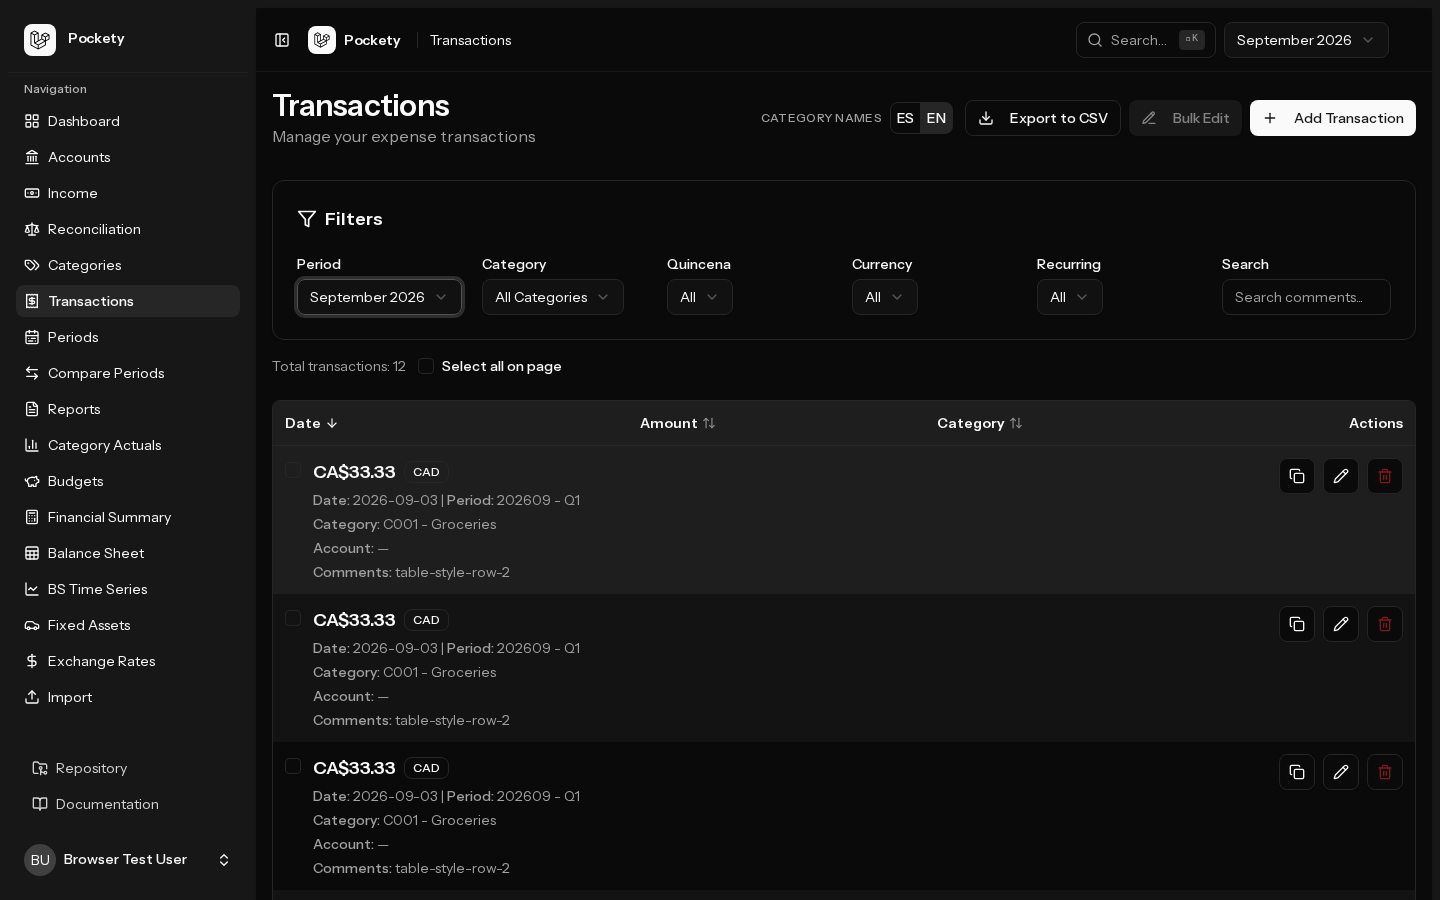
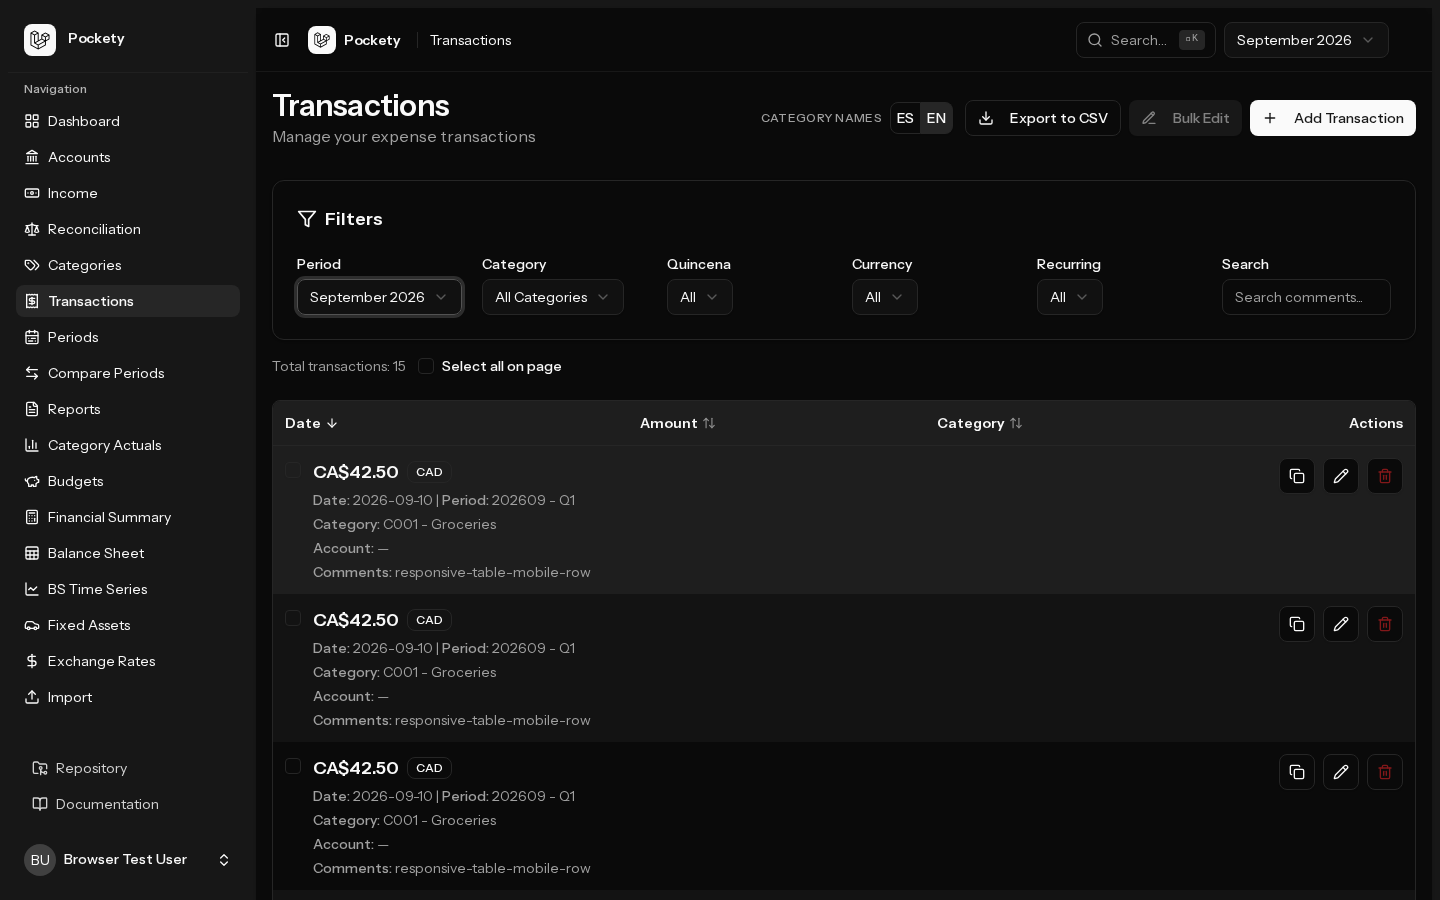
Implement responsive tables on mobile - verified end-to-end
- Shared Table scrolls horizontally with min-width on narrow viewports
- Transactions use stacked card layout and wrap sort controls at 375px
- Income and other data tables keep columns reachable via horizontal scroll
- Added Playwright coverage and marked feature_list.json test #146 passing
- Screenshots in verification/test-146-responsive-tables/

diff --git a/tests/browser/responsive-tables.spec.ts b/tests/browser/responsive-tables.spec.ts
@@ -1,0 +1,153 @@
+import { expect, test } from '@playwright/test';
+import { loginAsBrowserTestUser, trackConsoleErrors } from './helpers';
+
+const evidence = 'verification/test-146-responsive-tables';
+
+test.describe('responsive tables on mobile', () => {
+    test('transactions list uses card layout and remains interactive at 375px', async ({
+        page,
+    }) => {
+        const errors = trackConsoleErrors(page);
+        page.on('pageerror', (error) => errors.push(error.message));
+        await page.setViewportSize({ width: 375, height: 812 });
+        await loginAsBrowserTestUser(page);
+
+        const categories = await page.request.get('/api/categories');
+        expect(categories.ok()).toBeTruthy();
+        const categoryPayload = (await categories.json()) as {
+            data: Array<{ id: number }>;
+        };
+        expect(categoryPayload.data.length).toBeGreaterThan(0);
+        const categoryId = categoryPayload.data[0].id;
+
+        const create = await page.request.post('/api/transactions', {
+            data: {
+                date: '2026-09-10',
+                period: '202609',
+                quincena: 'Q1',
+                category_id: categoryId,
+                amount_cad: 42.5,
+                comments: 'responsive-table-mobile-row',
+            },
+        });
+        expect(create.ok()).toBeTruthy();
+        const created = (await create.json()) as { data: { id: number } };
+        const transactionId = created.data.id;
+
+        await page.goto('/transactions');
+        await page.getByTestId('page-period-selector').click();
+        await page
+            .getByRole('option', { name: 'September 2026', exact: true })
+            .click();
+
+        const table = page.getByTestId('transactions-data-table');
+        await expect(table).toBeVisible();
+        await expect(table).toHaveAttribute('data-responsive', 'cards');
+
+        const row = page.getByTestId(`transaction-row-${transactionId}`);
+        await expect(row).toBeVisible();
+        await expect(
+            page.getByTestId(`transaction-amount-${transactionId}`),
+        ).toBeVisible();
+        await expect(
+            page.getByTestId(`transaction-category-${transactionId}`),
+        ).toBeVisible();
+        await expect(
+            page.getByTestId(`transaction-comments-${transactionId}`),
+        ).toContainText('responsive-table-mobile-row');
+
+        const actions = page.getByTestId(
+            `transaction-actions-${transactionId}`,
+        );
+        await expect(actions).toBeVisible();
+        await expect(
+            page.getByTestId(`duplicate-transaction-${transactionId}`),
+        ).toBeVisible();
+        await expect(row.getByTestId('edit-transaction-button')).toBeVisible();
+        await expect(
+            row.getByTestId('delete-transaction-button'),
+        ).toBeVisible();
+
+        await row.getByTestId('edit-transaction-button').click();
+        const dialog = page.getByRole('dialog');
+        await expect(dialog).toBeVisible();
+        await expect(dialog.getByTestId('transaction-form-title')).toHaveText(
+            'Edit Transaction',
+        );
+        await page.keyboard.press('Escape');
+        await expect(dialog).toHaveCount(0);
+
+        await page.getByTestId(`select-transaction-${transactionId}`).click();
+        await expect(row).toHaveAttribute('data-selected', 'true');
+
+        // Sort controls remain usable on the narrow viewport
+        await page.getByTestId('sort-header-date').click();
+        await expect(page.getByTestId('sort-header-date')).toHaveAttribute(
+            'aria-sort',
+            /ascending|descending/,
+        );
+
+        await page.screenshot({
+            path: `${evidence}/transactions-mobile-375.png`,
+            animations: 'disabled',
+            fullPage: true,
+        });
+
+        expect(errors).toEqual([]);
+    });
+
+    test('income table scrolls horizontally on mobile without clipping columns', async ({
+        page,
+    }) => {
+        const errors = trackConsoleErrors(page);
+        page.on('pageerror', (error) => errors.push(error.message));
+        await page.setViewportSize({ width: 375, height: 812 });
+        await loginAsBrowserTestUser(page);
+
+        const description = `Mobile scroll income ${Date.now()}`;
+        const create = await page.request.post('/api/income', {
+            data: {
+                period: '202609',
+                description,
+                amount_cad: 1000,
+                amount_usd: 50,
+                amount_cop: 500000,
+            },
+        });
+        expect(create.ok()).toBeTruthy();
+
+        await page.goto('/income');
+        await page.locator('#period').fill('202609');
+        await page.getByRole('button', { name: 'Load Period' }).click();
+
+        const table = page.getByTestId('income-data-table');
+        await expect(table).toBeVisible({ timeout: 15000 });
+        await expect(table).toHaveAttribute('data-responsive', 'scroll');
+        await expect(page.getByText(description).first()).toBeVisible();
+
+        const scrollMetrics = await table.evaluate((el) => ({
+            clientWidth: el.clientWidth,
+            scrollWidth: el.scrollWidth,
+            overflowX: getComputedStyle(el).overflowX,
+        }));
+        expect(scrollMetrics.overflowX).toMatch(/auto|scroll/);
+        expect(scrollMetrics.scrollWidth).toBeGreaterThan(
+            scrollMetrics.clientWidth,
+        );
+
+        await table.evaluate((el) => {
+            el.scrollLeft = el.scrollWidth;
+        });
+        await expect
+            .poll(async () => table.evaluate((el) => el.scrollLeft))
+            .toBeGreaterThan(0);
+
+        await page.screenshot({
+            path: `${evidence}/income-mobile-scroll-375.png`,
+            animations: 'disabled',
+            fullPage: true,
+        });
+
+        expect(errors).toEqual([]);
+    });
+});

diff --git a/resources/js/pages/transactions.tsx b/resources/js/pages/transactions.tsx
@@ -1771,11 +1771,12 @@ export default function Transactions() {
                         </div>
 
                         <div
-                            className="overflow-hidden rounded-md border"
+                            className="overflow-x-auto rounded-md border"
                             data-testid="transactions-data-table"
+                            data-responsive="cards"
                         >
                         <div
-                            className="grid grid-cols-[minmax(0,1.2fr)_minmax(0,1fr)_minmax(0,1.4fr)_auto] items-center gap-2 border-b bg-muted/70 px-3 py-3"
+                            className="flex flex-wrap items-center gap-2 border-b bg-muted/70 px-3 py-3 sm:grid sm:grid-cols-[minmax(0,1.2fr)_minmax(0,1fr)_minmax(0,1.4fr)_auto] sm:gap-2"
                             data-testid="transactions-sort-headers"
                             role="row"
                         >
@@ -1866,8 +1867,8 @@ export default function Transactions() {
                                     )}
                                 >
                                     <CardHeader className="px-3">
-                                        <div className="flex items-start justify-between gap-3">
-                                            <div className="flex items-start gap-3 flex-1">
+                                        <div className="flex flex-col gap-3 sm:flex-row sm:items-start sm:justify-between">
+                                            <div className="flex min-w-0 flex-1 items-start gap-3">
                                                 <Checkbox
                                                     id={`select-transaction-${transaction.id}`}
                                                     checked={selectedIds.includes(
@@ -1881,10 +1882,10 @@ export default function Transactions() {
                                                     }
                                                     data-testid={`select-transaction-${transaction.id}`}
                                                     aria-label={`Select transaction ${transaction.id}`}
-                                                    className="mt-1"
+                                                    className="mt-1 shrink-0"
                                                 />
-                                            <div className="flex-1">
-                                                <div className="flex items-center gap-2">
+                                            <div className="min-w-0 flex-1">
+                                                <div className="flex flex-wrap items-center gap-2">
                                                     <CardTitle
                                                         className="text-lg"
                                                         data-testid={`transaction-amount-${transaction.id}`}
@@ -1904,7 +1905,7 @@ export default function Transactions() {
                                                     )}
                                                 </div>
                                                 <CardDescription className="mt-1">
-                                                    <div className="space-y-1">
+                                                    <div className="space-y-1 break-words">
                                                         <div
                                                             data-testid={`transaction-date-${transaction.id}`}
                                                         >
@@ -1963,7 +1964,10 @@ export default function Transactions() {
                                                 </CardDescription>
                                             </div>
                                             </div>
-                                            <div className="flex gap-2">
+                                            <div
+                                                className="flex shrink-0 gap-2 self-end sm:self-start"
+                                                data-testid={`transaction-actions-${transaction.id}`}
+                                            >
                                                 <Button
                                                     variant="outline"
                                                     size="icon"

diff --git a/resources/js/pages/balance-sheet.tsx b/resources/js/pages/balance-sheet.tsx
@@ -345,9 +345,12 @@ export default function BalanceSheet() {
                                                 )}
                                             </span>
                                         </div>
-                                        <div className="overflow-x-auto">
+                                        <div
+                                            className="overflow-x-auto"
+                                            data-responsive="scroll"
+                                        >
                                             <table
-                                                className="w-full text-sm"
+                                                className="w-full min-w-[28rem] text-sm"
                                                 data-testid="assets-table"
                                             >
                                                 <thead>
@@ -419,9 +422,12 @@ export default function BalanceSheet() {
                                         </CardDescription>
                                     </CardHeader>
                                     <CardContent>
-                                        <div className="overflow-x-auto">
+                                        <div
+                                            className="overflow-x-auto"
+                                            data-responsive="scroll"
+                                        >
                                             <table
-                                                className="w-full text-sm"
+                                                className="w-full min-w-[28rem] text-sm"
                                                 data-testid="liabilities-table"
                                             >
                                                 <thead>

diff --git a/resources/js/pages/financial-summary.tsx b/resources/js/pages/financial-summary.tsx
@@ -312,9 +312,12 @@ export default function FinancialSummary() {
                                     </CardDescription>
                                 </CardHeader>
                                 <CardContent>
-                                    <div className="overflow-x-auto">
+                                    <div
+                                        className="overflow-x-auto"
+                                        data-responsive="scroll"
+                                    >
                                         <table
-                                            className="w-full text-left text-sm"
+                                            className="w-full min-w-[36rem] text-left text-sm"
                                             data-testid="income-lines-table"
                                         >
                                             <thead>
@@ -480,9 +483,12 @@ export default function FinancialSummary() {
                                             Refreshing…
                                         </div>
                                     )}
-                                    <div className="overflow-x-auto">
+                                    <div
+                                        className="overflow-x-auto"
+                                        data-responsive="scroll"
+                                    >
                                         <table
-                                            className="w-full text-left text-sm"
+                                            className="w-full min-w-[36rem] text-left text-sm"
                                             data-testid="financial-summary-table"
                                         >
                                             <thead>

diff --git a/resources/js/components/ui/table.tsx b/resources/js/components/ui/table.tsx
@@ -6,10 +6,17 @@ const Table = React.forwardRef<
     HTMLTableElement,
     React.HTMLAttributes<HTMLTableElement>
 >(({ className, ...props }, ref) => (
-    <div className="relative w-full overflow-auto rounded-md border">
+    <div
+        className="relative w-full overflow-x-auto rounded-md border"
+        data-slot="table-scroll"
+        data-responsive="scroll"
+    >
         <table
             ref={ref}
-            className={cn('w-full caption-bottom text-sm', className)}
+            className={cn(
+                'w-full min-w-[36rem] caption-bottom text-sm',
+                className,
+            )}
             {...props}
         />
     </div>

diff --git a/resources/js/pages/income.tsx b/resources/js/pages/income.tsx
@@ -474,7 +474,11 @@ export default function Income() {
                         </CardContent>
                     </Card>
                 ) : (
-                    <div className="overflow-x-auto rounded-md border">
+                    <div
+                        className="overflow-x-auto rounded-md border"
+                        data-testid="income-data-table"
+                        data-responsive="scroll"
+                    >
                         <table className="w-full min-w-[640px] text-left text-sm">
                             <thead className="border-b bg-muted/70">
                                 <tr>

diff --git a/resources/js/components/ui/table.test.tsx b/resources/js/components/ui/table.test.tsx
@@ -32,6 +32,14 @@ describe('Table', () => {
             </Table>,
         );
 
+        const scroll = container.querySelector('[data-slot="table-scroll"]');
+        expect(scroll).not.toBeNull();
+        expect(scroll?.getAttribute('data-responsive')).toBe('scroll');
+        expect(scroll?.className).toMatch(/overflow-x-auto/);
+
+        const table = container.querySelector('table');
+        expect(table?.className).toMatch(/min-w-\[36rem\]/);
+
         const header = screen.getByTestId('sample-table-header');
         expect(header.className).toMatch(/bg-muted/);
         expect(header.className).toMatch(/border-b/);
